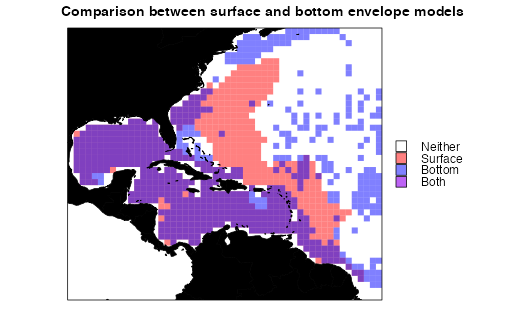
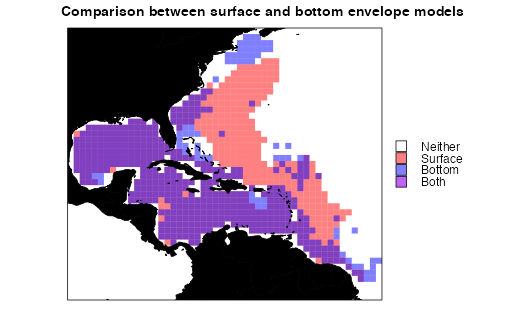
Error in line

diff --git a/docs/articles/a_Introduction.html b/docs/articles/a_Introduction.html
@@ -102,7 +102,7 @@
                         <h4 data-toc-skip class="author">Hannah L. Owens</h4>
                         <h4 data-toc-skip class="author">Carsten Rahbek</h4>
             
-            <h4 data-toc-skip class="date">2022-02-17</h4>
+            <h4 data-toc-skip class="date">2022-02-18</h4>
       
       <small class="dont-index">Source: <a href="https://github.com/hannahlowens/voluModel/blob/HEAD/vignettes/a_Introduction.Rmd" class="external-link"><code>vignettes/a_Introduction.Rmd</code></a></small>
       <div class="hidden name"><code>a_Introduction.Rmd</code></div>
@@ -239,7 +239,7 @@
 
 <span class="co"># Put it all together, bottom</span>
 <span class="va">envelopeModelBottom</span> <span class="op">&lt;-</span> <span class="va">temperaturePresence</span> <span class="op">*</span> <span class="va">AOUpresence</span>
-<span class="va">envelopeModelSurface</span> <span class="op">&lt;-</span> <span class="fu"><a href="https://rdrr.io/pkg/raster/man/mask.html" class="external-link">mask</a></span><span class="op">(</span><span class="fu"><a href="https://rdrr.io/pkg/raster/man/crop.html" class="external-link">crop</a></span><span class="op">(</span><span class="va">envelopeModelSurface</span>, <span class="va">studyRegion</span><span class="op">)</span>, mask <span class="op">=</span> <span class="va">studyRegion</span><span class="op">)</span></code></pre></div>
+<span class="va">envelopeModelBottom</span> <span class="op">&lt;-</span> <span class="fu"><a href="https://rdrr.io/pkg/raster/man/mask.html" class="external-link">mask</a></span><span class="op">(</span><span class="fu"><a href="https://rdrr.io/pkg/raster/man/crop.html" class="external-link">crop</a></span><span class="op">(</span><span class="va">envelopeModelBottom</span>, <span class="va">studyRegion</span><span class="op">)</span>, mask <span class="op">=</span> <span class="va">studyRegion</span><span class="op">)</span></code></pre></div>
 <p>How do these 2D models compare? <code>voluModel</code> has a function to conveniently generate a formatted comparison between two presence/absence distribution rasters <code><a href="../reference/rasterComp.html">rasterComp()</a></code>.</p>
 <div class="sourceCode" id="cb10"><pre class="downlit sourceCode r">
 <code class="sourceCode R"><span class="va">land</span> <span class="op">&lt;-</span> <span class="fu">rnaturalearth</span><span class="fu">::</span><span class="fu"><a href="https://rdrr.io/pkg/rnaturalearth/man/ne_countries.html" class="external-link">ne_countries</a></span><span class="op">(</span>scale <span class="op">=</span> <span class="st">"medium"</span>, returnclass <span class="op">=</span> <span class="st">"sf"</span><span class="op">)</span><span class="op">[</span><span class="fl">1</span><span class="op">]</span>
